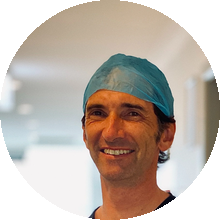
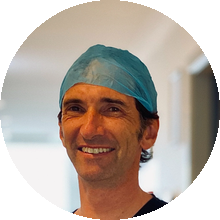
Centre his head in the portrait
Two earlier attempts missed. (0.44, 0.30), then (0.40, 0.26), both left his head
high and right of centre.

The reason was arithmetic rather than taste. At zoom 1.30 the largest square the
frame allows is 2208px inside a 2208x2944 image, so the crop window is pinned to
the left edge. Focus x could not move it left, and the value had quietly stopped
having any effect — which is why changing it twice appeared to do nothing. A
larger zoom shrinks the window below the frame width, letting it travel.

Now (0.47, 0.30) at zoom 1.40. His cap was located in the source by segmenting
its teal, which puts his face at x 0.455 and his cap top at y 0.157, so a crop
centred on x 0.47 and y 0.30 puts his eyes and nose on the centre of the circle
with his shoulders still in frame.

The value was picked from a 12-cell sweep of focus against zoom, each cell
rendered and checked against a centre crosshair rather than judged by eye alone
(media/_review/centre-sweep.png).

Checked at 112, 152, 220 and 440px: the crosshair lands between his eyes at every
size.

diff --git a/src/_lib/images.py b/src/_lib/images.py
@@ -86,10 +86,12 @@ def main():
     modern = os.path.join(SRC, "dr_andrew_sutherland_2023_2208x2944.webp")
     if os.path.exists(modern):
         head = Image.open(modern)
-        # He sits left of centre, with a bright corridor behind him. Framing on
-        # his face and cropping in a third stops the circle filling with the room.
-        focus = (0.40, 0.26)
-        zoom = 1.30
+        # His face sits at about x 0.47, y 0.30 of the frame. Centring the crop
+        # there puts his head in the middle of the circle; a bigger zoom keeps the
+        # window small enough that it can actually move, rather than being pinned
+        # to the frame edge where the focus value stops having any effect.
+        focus = (0.47, 0.30)
+        zoom = 1.40
         print(f"  using {os.path.basename(modern)} ({head.width}x{head.height})")
     else:
         head = Image.open(os.path.join(SRC, "dr_andrew_sutherland.png"))

diff --git a/media/_review/README.md b/media/_review/README.md
@@ -35,8 +35,16 @@ sharply at every size up to 2x.
   corridor filling the right of the frame. A plain centre crop loses his head to
   the right-hand third and fills half the circle with room; a tighter crop with
   the same focus then frames him too close, chin near the edge. `images.py`
-  takes both a focus point and a zoom, and now uses `(0.40, 0.26)` at `zoom 1.30`
-  — close enough that he fills the circle, wide enough to keep his shoulders.
+  takes both a focus point and a zoom, and uses `(0.47, 0.30)` at `zoom 1.40`,
+  which centres his head in the circle.
+
+  Two earlier attempts missed. `(0.44, 0.30)` and then `(0.40, 0.26)` both left his
+  head high and to the right. The reason was arithmetic, not taste: at `zoom 1.30`
+  the square the frame allows is pinned to the left edge, so *lowering* the focus
+  x could not move the window left — the focus value had stopped having any
+  effect. A larger zoom makes the window small enough to travel. The framing was
+  chosen from a 12-cell sweep of focus against zoom (`centre-sweep.png`), each
+  cell checked against a centre crosshair rather than by eye alone.
   `media/_review/framing-options.png` shows the four variants that were compared.
 
 ### How it sits on the page
